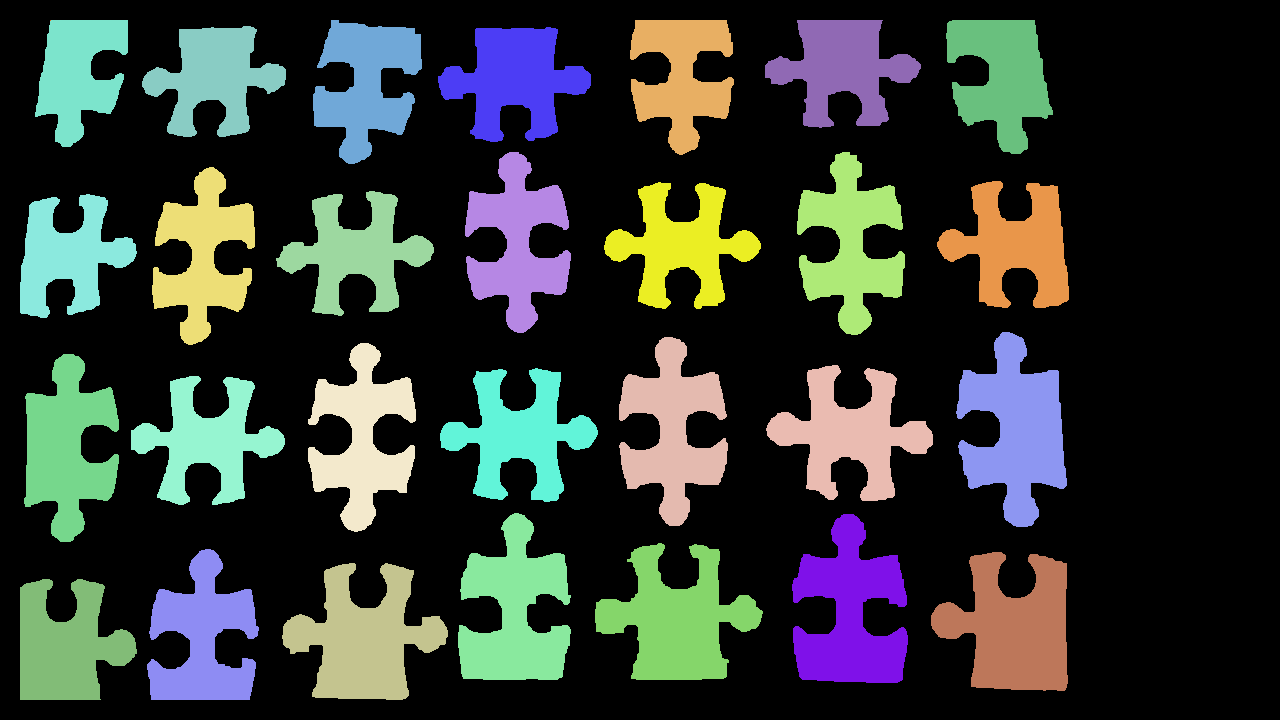
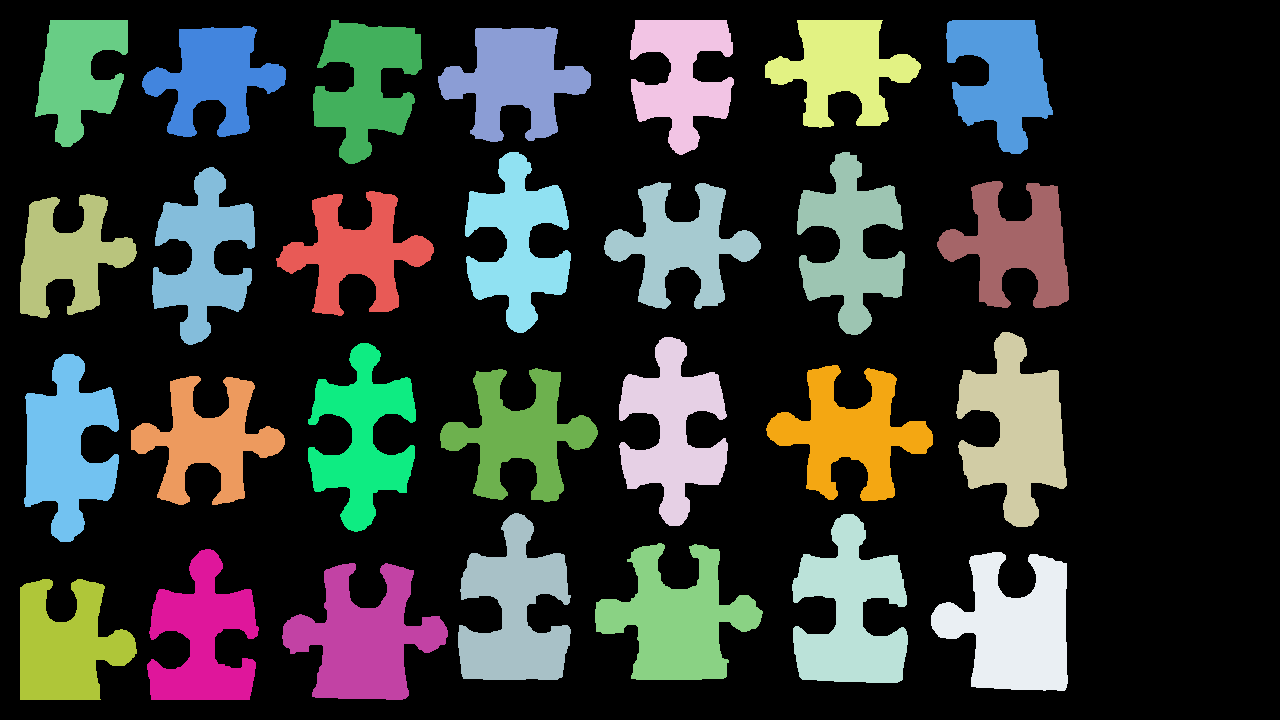
Thu Mar 13 09:10:32 AM CET 2025

diff --git a/src/analyse.cpp b/src/analyse.cpp
@@ -10,6 +10,13 @@
 #include "MathematicalMorphology.hpp"
 #include "utility.hpp"
 
+struct MinMaxPos {
+    unsigned int minX{-1u};
+    unsigned int minY{-1u};
+    unsigned int maxX{0u};
+    unsigned int maxY{0u};
+};
+
 int main() {
     Image puzzle = read_image("data/puzzle.jpg", false);
     int width = puzzle.width();
@@ -19,8 +26,8 @@ int main() {
     int pixelAmount = 0;
 
     Color background;
-    for(int i = 1100 ; i < width ; ++i) {
-        for(int j = 0 ; j < 650 ; ++j) {
+    for(int j = 0 ; j < 650 ; ++j) {
+        for(int i = 1100 ; i < width ; ++i) {
             background = background + puzzle(i, j);
             ++pixelAmount;
         }
@@ -32,14 +39,13 @@ int main() {
     Array2D<bool> binaryMask(width, height);
     Color epsilon(0.2f, 0.1f, 0.04f);
 
-    for(int i = 0 ; i < width ; ++i) {
-        for(int j = 0 ; j < height ; ++j) {
+    for(int j = 0 ; j < height ; ++j) {
+        for(int i = 0 ; i < width ; ++i) {
             binaryMask(i, j) = isColorSimilar(puzzle(i, j), background, epsilon);
         }
     }
 
-
-    /* ---- Erase Little Bits and Fill Holes ---- */
+    // Erase Little Bits and Fill Holes
     binaryMask = dilate(binaryMask, MathematicalMorphology::Square);
     binaryMask = dilate(binaryMask, MathematicalMorphology::Square);
     binaryMask = dilate(binaryMask, MathematicalMorphology::Cross);
@@ -51,7 +57,7 @@ int main() {
     binaryMask = erode(binaryMask, MathematicalMorphology::Cross);
     binaryMask = dilate(binaryMask, MathematicalMorphology::Square);
 
-    /* ---- Erase the Borders of the Image and the Logo ---- */
+    // Erase the Borders of the Image and the Logo
     for(int i = 0 ; i < width ; ++i) {
         for(int j = 0 ; j < 20 ; ++j) { binaryMask(i, j) = 1; }
         for(int j = height - 20 ; j < height ; ++j) { binaryMask(i, j) = 1; }
@@ -62,8 +68,8 @@ int main() {
         for(int i = width - 20 ; i < width ; ++i) { binaryMask(i, j) = 1; }
     }
 
-    for(int i = 1180 ; i <= 1250 ; ++i) {
-        for(int j = 650 ; j <= 700 ; ++j) {
+    for(int j = 650 ; j <= 700 ; ++j) {
+        for(int i = 1180 ; i <= 1250 ; ++i) {
             binaryMask(i, j) = 1;
         }
     }
@@ -73,11 +79,18 @@ int main() {
     /* ---- Labeling ---- */
     Array2D<int> labels(width, height);
     std::unordered_map<int, int> closures;
-    int maxLabel = 0;
+    int maxLabel = 1;
 
-    static constexpr std::pair<int, int> OFFSETS[]{ { -1, -1 }, { 0, -1 }, { 1, -1 }, { -1, 0 } };
     int neighborLabels[4];
     unsigned int neighbors;
+    auto checkOffset = [&width, &height, &labels, &neighborLabels, &neighbors](unsigned int x, unsigned int y) {
+        if(x >= width || y >= height) { return; }
+
+        int value = labels(x, y);
+        if(value > 0) {
+            neighborLabels[neighbors++] = value;
+        }
+    };
 
     // First Pass : Initial Labeling
     for(int j = 0 ; j < height ; ++j) {
@@ -86,17 +99,10 @@ int main() {
 
             neighbors = 0;
 
-            for(auto [offsetX, offsetY] : OFFSETS) {
-                unsigned int x = i + offsetX;
-                unsigned int y = j + offsetY;
-
-                if(x >= width || y >= height) { continue; }
-
-                int value = labels(x, y);
-                if(value > 0) {
-                    neighborLabels[neighbors++] = value;
-                }
-            }
+            checkOffset(i - 1, j - 1);
+            checkOffset(i, j - 1);
+            checkOffset(i + 1, j - 1);
+            checkOffset(i - 1, j);
 
             if(neighbors == 0) {
                 labels(i, j) = maxLabel++;
@@ -123,8 +129,10 @@ int main() {
 
     // Second Pass : Transitive Closures
     std::unordered_map<int, Color> labelColors;
-    for(int i = 0 ; i < width ; ++i) {
-        for(int j = 0 ; j < height ; ++j) {
+    std::unordered_map<int, MinMaxPos> labelPositions;
+
+    for(int j = 0 ; j < height ; ++j) {
+        for(int i = 0 ; i < width ; ++i) {
             int& label = labels(i, j);
 
             int closure = label;
@@ -134,25 +142,45 @@ int main() {
             }
 
             label = closure;
-            if(!labelColors.contains(label)) {
-                labelColors.emplace(label, Color(random(0.0f, 1.0f), random(0.0f, 1.0f), random(0.0f, 1.0f)));
+            if(label > 0) {
+                if(i < labelPositions[label].minX) { labelPositions[label].minX = i; }
+                if(j < labelPositions[label].minY) { labelPositions[label].minY = j; }
+                if(i > labelPositions[label].maxX) { labelPositions[label].maxX = i; }
+                if(j > labelPositions[label].maxY) { labelPositions[label].maxY = j; }
+
+                if(!labelColors.contains(label)) {
+                    labelColors.emplace(label, Color(random(0.0f, 1.0f), random(0.0f, 1.0f), random(0.0f, 1.0f)));
+                }
             }
         }
     }
 
-    std::cout << "There are " << labelColors.size() << " unique labels \n";
+    std::cout << "There are " << labelColors.size() << " unique labels:\n";
+    for(const auto& [label, _] : labelColors) {
+        std::cout << label << ' ';
+    }
+    std::cout << '\n';
 
-    for(int i = 0 ; i < width ; ++i) {
-        for(int j = 0 ; j < height ; ++j) {
-            if(!binaryMask(i, j)) {
-                puzzle(i, j) = labelColors.at(labels(i, j));
-            } else {
-                puzzle(i, j) = Black();
-            }
+    for(int j = 0 ; j < height ; ++j) {
+        for(int i = 0 ; i < width ; ++i) {
+            puzzle(i, j) = binaryMask(i, j) ? Black() : labelColors.at(labels(i, j));
         }
     }
 
     write_image_png(srgb(puzzle), "data/labels.png", false);
+
+    /* ---- Extract Pieces ---- */
+    for(const auto& [label, position] : labelPositions) {
+        Image piece(position.maxX - position.minX, position.maxY - position.minY);
+
+        for(int j = 0 ; j < piece.height() ; ++j) {
+            for(int i = 0 ; i < piece.width() ; ++i) {
+                piece(i, j) = puzzle(i + position.minX, j + position.minY);
+            }
+        }
+
+        write_image_png(srgb(piece), ("data/pieces/piece-" + std::to_string(label) + ".png").c_str(), false);
+    }
 
     return 0;
 }
